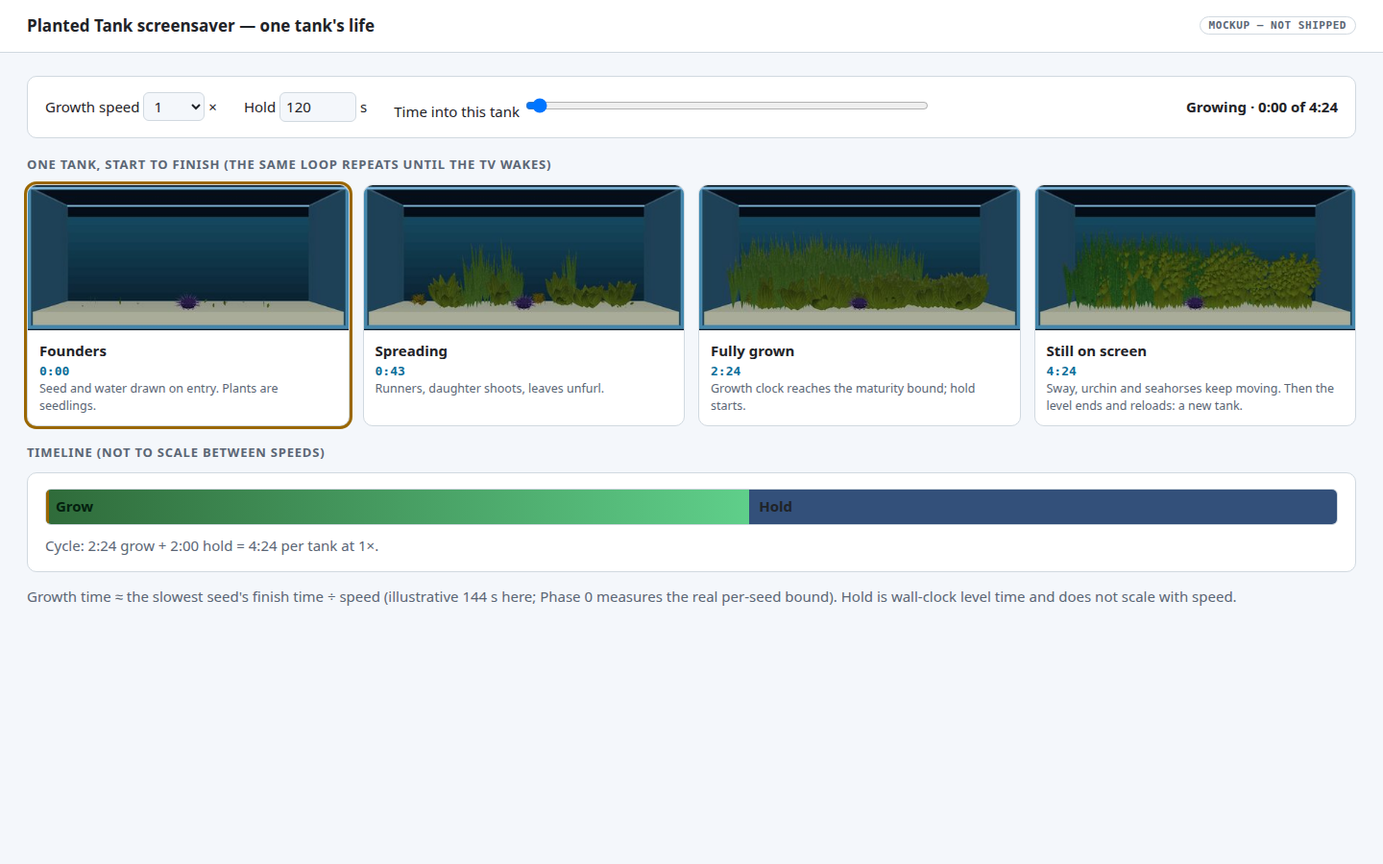
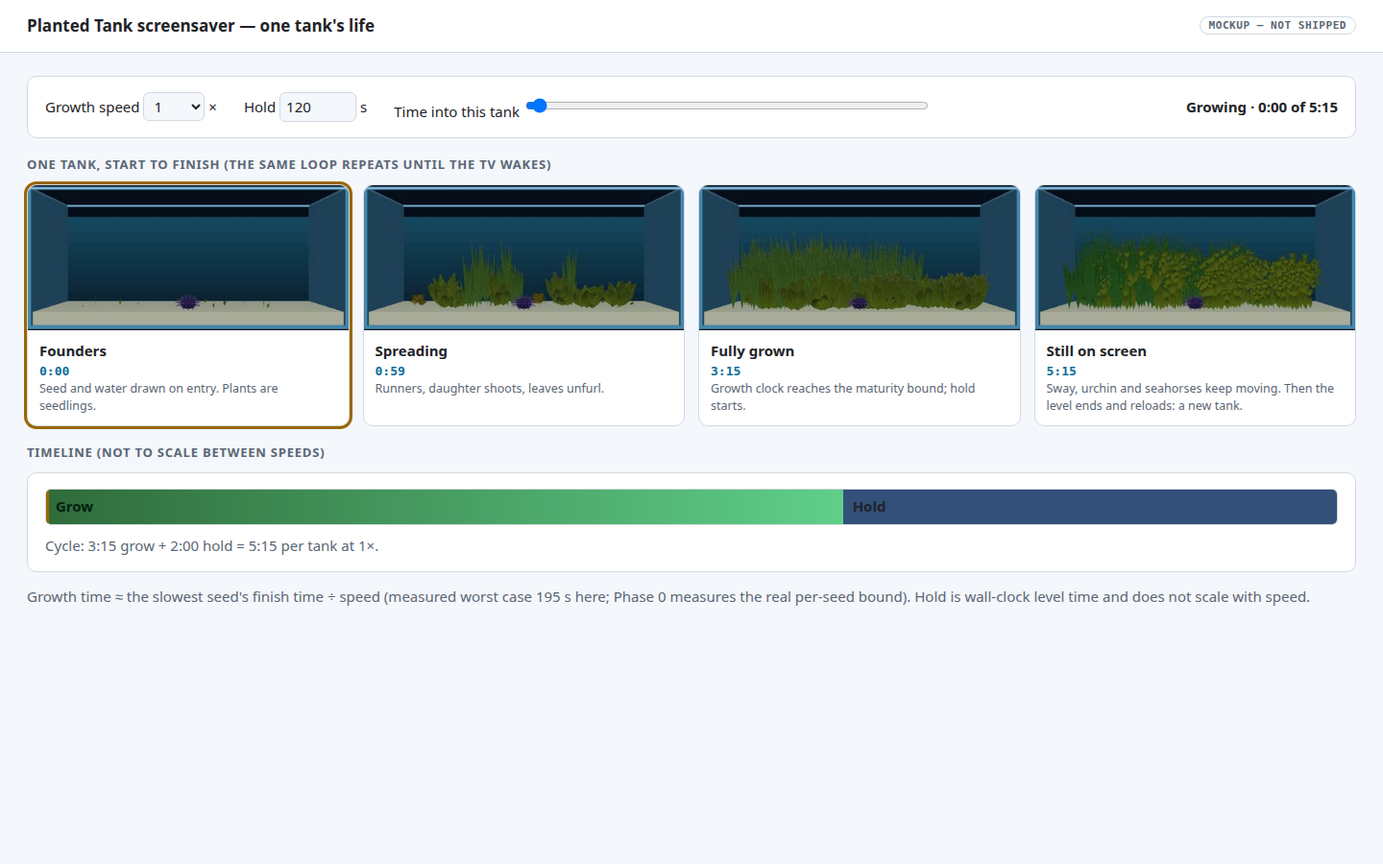
Planted Tank plan: record maturity sweep and S3 spike results
Maturity bound is 195 s (measured 103-193 s over 200 seeds). The seed strip
is engine-drawn, so hiding it needs a generic engine edit; framing is a
camera text substitution (y -12 to -8.25). Mockups updated to match.

Claude-Session: https://claude.ai/code/session_01LmFZJSGwibDCpz7J9wzY9X

diff --git a/docs/plans/2026-10-21-planted-tank-screensaver/dream-lifecycle.html b/docs/plans/2026-10-21-planted-tank-screensaver/dream-lifecycle.html
@@ -28,9 +28,9 @@ code,pre{font:13px/1.5 ui-monospace,SFMono-Regular,Menlo,monospace}
  <div id="h" style="background:#33507a;display:flex;align-items:center;padding-left:10px;font-weight:600">Hold</div>
  <div id="head" style="position:absolute;top:-4px;bottom:-4px;width:3px;background:var(--warn)"></div></div>
  <p id="sum" class="muted" style="margin:10px 0 0"></p></div>
-<p class="muted" style="margin-top:14px">Growth time ≈ the slowest seed's finish time ÷ speed (illustrative 144 s here; Phase 0 measures the real per-seed bound). Hold is wall-clock level time and does not scale with speed.</p>
+<p class="muted" style="margin-top:14px">Growth time ≈ the slowest seed's finish time ÷ speed (measured worst case 195 s here; Phase 0 measures the real per-seed bound). Hold is wall-clock level time and does not scale with speed.</p>
 </main><script>
-const G=144,$=id=>document.getElementById(id),mmss=s=>Math.floor(s/60)+':'+String(Math.round(s%60)).padStart(2,'0');
+const G=195,$=id=>document.getElementById(id),mmss=s=>Math.floor(s/60)+':'+String(Math.round(s%60)).padStart(2,'0');
 function draw(){const sp=+$('speed').value,h=+$('hold').value||0,grow=G/sp,total=grow+h,p=+$('t').value/100,t=p*total;
  $('g').style.flex=grow;$('h').style.flex=Math.max(h,1);$('head').style.left=(p*100)+'%';
  const marks=[0,grow*.3,grow,grow+h];for(let i=0;i<4;i++)$('c'+i).textContent=mmss(marks[i]);

diff --git a/docs/plans/2026-10-21-planted-tank-screensaver/parameters.html b/docs/plans/2026-10-21-planted-tank-screensaver/parameters.html
@@ -19,7 +19,7 @@ pre{margin:0;white-space:pre-wrap;word-break:break-all}button{font:inherit;backg
  <div class="row"><label for="speed">speed</label><select id="speed"><option>0.25</option><option>0.5</option><option selected>1</option><option>2</option><option>4</option><option>8</option></select><small>growth clock; 1× is the default</small></div>
  <div class="row"><label for="hold">hold</label><input id="hold" value="120"><small>seconds on screen once grown</small></div>
  <div class="row"><label for="sea">seahorses</label><input id="sea" value="6"><small id="seaN">0 – 6, saltwater only</small></div>
- <div class="row"><label for="label">label</label><label class="chk"><input id="label" type="checkbox"> show “Seed … | Water” strip</label></div>
+ <div class="row"><label for="label">label</label><label class="chk"><input id="label" type="checkbox" disabled> show “Seed … | Water” strip</label><small>not in v1: the strip is engine-drawn (needs an engine edit)</small></div>
  <p id="err" style="margin:12px 0 0;min-height:44px"></p></div>
 <div style="display:grid;gap:16px;align-content:start">
  <div class="card"><h2>Preview launch (activity extras)</h2><pre id="am"></pre></div>

diff --git a/docs/plans/2026-10-21-planted-tank-screensaver/make_mockups.py b/docs/plans/2026-10-21-planted-tank-screensaver/make_mockups.py
@@ -61,11 +61,11 @@ def lifecycle(art: Path) -> str:
  <div id="h" style="background:#33507a;display:flex;align-items:center;padding-left:10px;font-weight:600">Hold</div>
  <div id="head" style="position:absolute;top:-4px;bottom:-4px;width:3px;background:var(--warn)"></div></div>
  <p id="sum" class="muted" style="margin:10px 0 0"></p></div>
-<p class="muted" style="margin-top:14px">Growth time ≈ the slowest seed's finish time ÷ speed (illustrative 144 s here; Phase 0 measures the real per-seed bound). Hold is wall-clock level time and does not scale with speed.</p>
+<p class="muted" style="margin-top:14px">Growth time ≈ the slowest seed's finish time ÷ speed (measured worst case 195 s here; Phase 0 measures the real per-seed bound). Hold is wall-clock level time and does not scale with speed.</p>
 </main>"""
     css = ".f{margin:0;background:var(--panel);border:1px solid var(--line);border-radius:10px;overflow:hidden}.f img{display:block;width:100%}.f figcaption{padding:10px 12px;display:grid;gap:2px}.f figcaption span{color:var(--accent);font:600 13px ui-monospace,monospace}.f small{color:var(--muted)}.f.on{outline:3px solid var(--warn)}select,input{font:inherit;background:var(--bg);color:var(--fg);border:1px solid var(--line);border-radius:6px;padding:3px 6px}"
     js = """
-const G=144,$=id=>document.getElementById(id),mmss=s=>Math.floor(s/60)+':'+String(Math.round(s%60)).padStart(2,'0');
+const G=195,$=id=>document.getElementById(id),mmss=s=>Math.floor(s/60)+':'+String(Math.round(s%60)).padStart(2,'0');
 function draw(){const sp=+$('speed').value,h=+$('hold').value||0,grow=G/sp,total=grow+h,p=+$('t').value/100,t=p*total;
  $('g').style.flex=grow;$('h').style.flex=Math.max(h,1);$('head').style.left=(p*100)+'%';
  const marks=[0,grow*.3,grow,grow+h];for(let i=0;i<4;i++)$('c'+i).textContent=mmss(marks[i]);
@@ -120,7 +120,7 @@ def params() -> str:
  <div class="row"><label for="speed">speed</label><select id="speed"><option>0.25</option><option>0.5</option><option selected>1</option><option>2</option><option>4</option><option>8</option></select><small>growth clock; 1× is the default</small></div>
  <div class="row"><label for="hold">hold</label><input id="hold" value="120"><small>seconds on screen once grown</small></div>
  <div class="row"><label for="sea">seahorses</label><input id="sea" value="6"><small id="seaN">0 – 6, saltwater only</small></div>
- <div class="row"><label for="label">label</label><label class="chk"><input id="label" type="checkbox"> show “Seed … | Water” strip</label></div>
+ <div class="row"><label for="label">label</label><label class="chk"><input id="label" type="checkbox" disabled> show “Seed … | Water” strip</label><small>not in v1: the strip is engine-drawn (needs an engine edit)</small></div>
  <p id="err" style="margin:12px 0 0;min-height:44px"></p></div>
 <div style="display:grid;gap:16px;align-content:start">
  <div class="card"><h2>Preview launch (activity extras)</h2><pre id="am"></pre></div>

diff --git a/docs/plans/2026-10-21-planted-tank-screensaver/spikes/S3.md b/docs/plans/2026-10-21-planted-tank-screensaver/spikes/S3.md
@@ -1,0 +1,123 @@
+# Spike S3: the seed strip and the 85% framing
+
+Plan: [2026‑10‑21 Planted Tank screensaver](../../2026-10-21-planted-tank-screensaver.md), Phase 0d. Read-only investigation on `2026-new-level`, 2026‑10‑21. Nothing was compiled, edited or committed.
+
+## Verdicts
+
+| Question | Verdict |
+|---|---|
+| Can the screensaver variant drop the `Seed: … \| Hold A: settings` strip **without an engine edit**? | **NO.** The strip is drawn by engine C++ (`planted::buildUI`) on every frame while `planted::state().active` is true. `active` is set by `planted::enter()`, which is what generates the plants, and growth (`planted::tick`) returns early unless `active` is set. No level field, catalog field, object flag, mailbox or host switch (`WFAndroidSetHudEnabled(0)`, `--no-fps`) reaches the strip. |
+| Does the plan's `label` parameter (strip only when asked) have a no-engine-edit implementation? | **NO**, for the same reason. It needs a seam of about three lines (below), so it needs Will's say-so. |
+| Framing: which camera numbers give at least 85% width? | Move the **wide** camera from `y = -12` to **`y = -8.25`** and keep `x = 0`, `z = 2.5` and the `LookAt` at `(0, 0, 2.5)`. The tank then fills **90.0% of the width and 71.3% of the height** at 16:9, with nothing cropped (a 5% margin each side for TV overscan). The hard limit for 85% is `y = -8.638`. The vertical field of view is fixed at 60° in the engine, so FOV is not a lever. |
+| Edit method | A text substitution in `scripts/build-aquarium-screensaver-levels.py`, scoped to two `OBJ` blocks in the exported `.lev`: the `Position` y of `"cs_wide"` and of `"Camera"`. The builder already splits on `\t{ 'OBJ'` to rewrite the Player, so this is the same technique. No engine edit and no change to the canonical level. |
+| Does the screensaver stay on the wide camera? | **Yes.** The only switch to the close camera is a native tap of A (`game.cc:677` toggles mailbox 625). The Dream is non-interactive, and the screensaver host forwards no keys to the engine, so mailbox 625 stays 0. |
+
+ESCALATE: the plan's "no strip" goal (Phase 1) and the `label` parameter both need a small engine edit, which needs Will's explicit permission. This is beyond the T3 remit. The rest of Phase 1, including the framing, is independent of it.
+
+### The smallest engine seam for the strip
+
+If Will approves, three edits in two files do it. They are not made here.
+
+1. `wfsource/source/game/plant_settings.h:12`: add `bool label=true;` to `planted::State`.
+2. `plant_settings.h:36`, inside the `if(!selected)` block of `enter()` (lines 31-38): `s.label=value(9,"1")!="0";` (field 9 is the next free id after the plan's field 8 for seahorses). A missing field keeps today's behaviour, so the canonical level and the eight Aquarium variants are unchanged.
+3. `wfsource/source/game/plant_ui.cc:12`: `if(s.active){` becomes `if(s.active&&s.label){`.
+
+The variant then sets field 9 to `0` in its `PlantedTankSettings` catalog entry. Alternatively, the Phase 2b staging adapter sets `state().label` directly. With that seam, `label` becomes a runtime parameter instead of a cooked one. Note that `enter()` reads catalog fields only when no seed was staged (`if(!selected)`, line 31), so a staged run would also have to stage `label`. This matters for Spike S1.
+
+## Evidence: the strip
+
+| Fact | Where |
+|---|---|
+| The strip text and its dark rectangle `(42, 984, 890 × 54)` on a 1920 × 1080 reference canvas, drawn only `if(s.active)` with no other condition | `wfsource/source/game/plant_ui.cc:12-14` |
+| `buildUI` is called after `EndFrame` whenever `planted::state().active` (or a settings modal is open) **and** a level-menu drawer is installed | `wfsource/source/gfx/gl/display.cc:1280` |
+| On Android the drawer is always installed, at display init | `wfsource/source/gfx/gl/display.cc:789` (`levelmenu::SetDrawer(&WFAndroidDrawLevelMenu)`) |
+| `WFAndroidDrawLevelMenu` does **not** check `gHudEnabled`. Only the touch-control HUD (`WFAndroidDrawHUD`) does | `wfsource/source/gfx/gl/android_window.cc:353, 359` and `:502-506` |
+| The screensaver host disables only the touch HUD and the FPS counter | `android/screensaver/src/main/cpp/dream_host.cc:114` (`WFAndroidSetHudEnabled(0)`), `:126` (`--no-fps`) |
+| `active=true` is set in `enter()`. `enter()` is called from Forth `plant-register` when the chunk is 0 | `plant_settings.h:28`, `engine/stubs/scripting_zforth.cc:1323-1326` |
+| Growth needs `active`: `tick()` returns early without it, and so does the per-chunk geometry upload | `plant_settings.h:86`, `scripting_zforth.cc:1329-1330` |
+| `active` is cleared only by `leave()`, at level unload | `plant_settings.h:44`, `wfsource/source/game/game.cc:421` |
+| The catalog fields `enter()` reads are 1 (seed), 2 (salt), 3 (speed), 4 (age), 5 (textures), 6 (sway) and 7 (random entry). None of them controls the strip | `plant_settings.h:32-38` |
+| The strip is visible in the retained device capture. The `12.8` at bottom right is the FPS counter, which `--no-fps` removes | `docs/plans/2026-10-03-aquatic-plant-clumps-and-poster/runtime-evidence/textured-device/freshwater-mature.png` |
+
+Attempts to find a level-only way: (1) a catalog or Director field: none is read for the strip; (2) not calling `plant-register 0`: no plants grow; (3) the HUD flag or the drawer pointer: the flag does not gate this drawer, and the pointer is engine-set. That is three attempts; there is no level-only route.
+
+**A shipped side effect.** The current Aquarium screensaver already ships `aquarium_plants_screensaver` as its sixth choice (`scripts/build-aquarium-screensaver-levels.py:19-23`, `TankChoice.java:13`). So the Aquarium Dream shows this strip today when "Planted Tank" is selected, including the misleading "Hold A: settings" on a Dream that takes no input. The same engine seam would fix both apps.
+
+## Evidence: framing
+
+### Camera and projection
+
+| Item | Value | Where |
+|---|---|---|
+| Wide camshot `cs_wide` | position `(0, -12, 2.5)`, `Rotation Fixed`, all axes `Absolute`, Target / Follow / Track = `LookAt` | `wflevels/aquarium_plants/aquarium_plants.lev:654-655, 744-753`; generator `wflevels/aquarium_tanks/generate.py:368-371` |
+| `LookAt` | `(0, 0, 2.5)`: the camera looks straight down +Y, with no pitch | `.lev:766-767`, `generate.py:367` |
+| `Camera` (the mobile camera object) | position `(0, -12, 2.5)`, copied from `cs_wide`. Fog colour `0x102b40`, start 9, complete 45 | `.lev:129-130, 221-223`, `generate.py:377-378` |
+| Camshot `FOV` field | 50.0, but **unused**: `movecam.cc:386` copies it to `outPos.field`, and nothing reads that for the projection | `.lev:754`, `wfsource/source/game/movecam.cc:386` |
+| Actual projection | **60° vertical**, aspect = draw surface (16:9 on the Chromecast HD), near 1, far 1000, set every frame | `wfsource/source/gfx/gl/display.cc:897` (`SetProjection(60.0f, suw/suh, 1, 1000)`), parameter named `fovDegY` in `wfsource/source/gfx/renderer_backend.hp:75` |
+| Close camshot `cs_close` | authored at `(0, -5.2, 2.0)` looking at `LookClose (0, -0.85, 1.35)`. Each frame `tk-camera-tick` moves `LookClose` to the Player's x and y, at the Player's z + 0.485, and `cs_close` to the Player's x, at `LookClose` z + 1.135. Its y stays -5.2 | `.lev:2564-2565, 2660-2661`, `config.py` (`CLOSE_LOOK`, `CLOSE_CAMERA`), `wflevels/aquarium_tanks/plants_controller.fth:33-39` |
+| Camshot selection | `tk-camera` (mailbox 625) selects `tk-cam-close` or `tk-cam-wide` → `INDEXOF_CAMSHOT` | `plants_controller.fth:39`; mailbox 600 + 25 in `generate.py:384-386` |
+
+**What the close camera shows.** A 1:1 chase view about 4.35 m in front of the Player, centred on it. That is the sea urchin in saltwater, or the goby in freshwater: the Player script runs `tk-urchin-player-tick` or `gb-player-tick` on `pg-salt` (`generate.py:498`). It shows a small part of the substrate and the lower plants.
+
+**How A switches it.** In the cooked level the Forth A-tap edge (`plants_controller.fth:14`) is replaced with a comment, because `PLANTED_TANK_DETAIL=runtime` is the default (`generate.py:491-492`). The `.lev` has 0 hits for `JOYSTICK_BUTTON_A tk-edge` and 2 for the replacement comment. The native settings gesture handles A instead: a tap shorter than 1 s toggles mailbox 625 (`game.cc:677`, `engine/runtime_property_host.cpp:133-134`), and a hold of 1 s or more opens the settings modal.
+
+### The tank's world extents
+
+From `generate.py:44, 296-313`: `HX=6.096`, `HY=1.651`, `HEIGHT=5.334`, `WALL=0.127`, `SAND=0.635`, `WATER=4.826`.
+
+| Part | Extent |
+|---|---|
+| Tank shell (base, end walls, back) | x ±6.096, y ±1.651, z 0 to 5.334 |
+| Rim | top at z 5.434, flush with x ±6.096 and y ±1.651 |
+| `front-collider` | y -1.778 to -1.651, **invisible** (`static_box(..., False)`, `generate.py:165, 308`), so there is no front pane |
+| Stand | x ±6.246, y ±1.801, z -2.5 to -0.025. It is furniture, not the tank |
+| Plants | every vertex clamped to x ±5.90, y ±1.43, z ≤ 4.79 (`wfsource/source/game/plant_growth.h:47`): inside the shell |
+| Urchin | x ±4.70 (`LIMIT_X`), y ±0.88, z 0.865 (`config.py`); goby ceiling 4.35 |
+
+Because the plants and animals are clamped inside the shell, a frame that contains the shell box cannot cut them.
+
+### The calculation
+
+A pinhole model with 60° vertical, 16:9, the camera at `(0, cy, cz)` looking at `(0, 0, cz)`, projecting the 8 corners of the box x ±6.096, y ±1.651, z 0 to 5.434. The widest points are the front corners.
+
+The model reproduces the capture: at `cy = -12` it gives **57.4% width and 45.5% height**. The PNG measures 1102 px of 1920 (57.4%) and 490 px of 1080 (45.4%).
+
+| `cy` (z 2.5) | Width | Vertical NDC (bottom to top) | Note |
+|---|---|---|---|
+| -12 (today) | 57.4% | -0.418 to 0.491 | matches the capture |
+| -9.0 | 80.8% | -0.589 to 0.692 | short of target |
+| -8.638 | 85.0% | -0.620 to 0.727 | exact 85% limit |
+| -8.5 | 86.7% | -0.632 to 0.742 | |
+| **-8.25** | **90.0%** | **-0.656 to 0.770** | **recommended**: 96 px margin each side at 1920, 71% of the height |
+| -8.107 | 92.0% | -0.671 to 0.787 | tighter. Overscan on some TVs could clip the walls |
+
+Centring vertically (moving both the camera and the `LookAt` to z 2.717, the mid-height of the shell) makes the vertical span symmetric (±0.713 at -8.25) but changes a third object. It is optional and not needed for the target.
+
+**What leaves the frame at `cy = -8.25`.** Only the lower part of the stand: the frame bottom reaches z ≈ -1.2 at the stand's front face, so the stand's bottom 1.3 m is cropped. The black band under the stand in the current capture (below the backdrop's z -5 edge) also leaves the frame: the bottom edge now meets the backdrop at z ≈ -4.0. Nothing in the tank is cropped.
+
+### The variant builder edit (for Phase 1, not made here)
+
+In the exported `.lev`, inside the `OBJ` blocks named `"cs_wide"` and `"Camera"` only, replace `-12.0000000000000000(1.15.16)` in the `Position` VEC3 with `-8.2500000000000000(1.15.16)`. That string occurs exactly twice in the file, at lines 130 and 655, so a check for "exactly one hit per block, two in total" makes the substitution fail loudly if the generator moves the camera. Change `Camera` too, so the level does not open on a one-second pan (`Pan Time In Seconds 1.0`, `.lev:757`) from the old position. Do the substitution in the same pass as `player_script()`, and only for the new `planted_tank_screensaver` target, so that the Aquarium bundle's `aquarium_plants_screensaver` keeps today's framing unless Will wants both.
+
+## Q3: other things a screensaver should drop or watch
+
+| Item | Status in the screensaver | Where |
+|---|---|---|
+| Seed strip with "Hold A: settings" | **Drawn**: needs the engine seam above | `plant_ui.cc:12-14` |
+| FPS counter | off (`--no-fps`) | `dream_host.cc:126` |
+| Touch controls (joystick disc, buttons) | off (`gHudEnabled=false`) | `android_window.cc:353, 359` |
+| Settings modal, object picker, phone form, colour picker or keypad | only when `wfprops::host().modal`. Opening it needs an A hold. A modal also **pauses** the level (`game.cc:680`), but no input path reaches it | `plant_ui.cc:15` (`buildHost`), `game.cc:674-680` |
+| Close-camera toggle (A tap) | unreachable without input | `game.cc:677` |
+| Input path | Dreams call `setInteractive(false)`, and neither `dream_host.cc` nor `TankPlayer.java` nor `ScreensaverPreviewActivity.java` forwards key or button events (grep for key, button, joystick and input: no hits). A new `PlantedTankActivity` must not add one, or a remote tap would switch cameras and a hold would freeze the tank behind a modal | `SeahorseGridDreamService.java:12`, `AquariumDreamService.java:11` |
+| Player auto-drive | the variant's Player reads mailbox 760, written by `ss-drive` (`screensaver_player.fth`), not the hardware joystick. In freshwater the Player is the goby, whose tick reads `JOYSTICK_BUTTON_*` through `tk-held`. Because the builder replaces `INDEXOF_HARDWARE_JOYSTICK1_RAW` in the whole Player script, the goby also follows `ss-drive`. Phase 5 should confirm that the goby moves sensibly under the urchin's leg driver | `build-aquarium-screensaver-levels.py:53-57`, `generate.py:498` |
+| Random seed per entry | catalog field 7 defaults to "1", so each `enter()` draws `freshSeed()` unless a seed was staged. That is correct for the cycle | `plant_settings.h:32-33` |
+| Fog after the camera move | `FoggingStartDistance` 9 is fixed. The front glass moves from 10.3 to 6.6 m and the back wall from 13.7 to 9.9 m, so the scene loses about 4 to 10 points of fog and reads slightly crisper and brighter than in the retained captures. This is acceptable. To keep today's look, scale start and complete by about 0.64 in the same `Camera` block substitution | `.lev:222-223` |
+| QR code or pairing prompt | none in the plant level or in `plant_ui.cc`. Phone-pad surfaces appear only inside the modal (`host.phone`) | `engine/runtime_property_host.hpp:25` |
+
+## Risks
+
+1. **Engine permission.** "No strip" is in Phase 1's scope, and the `label` parameter is in the plan's table, but neither is reachable without the three-line seam. If Will declines, the screensaver ships with the strip, as the Aquarium Dream's Planted Tank does today, and `label` should come out of the parameter table.
+2. **Aspect assumption.** The percentages assume a 16:9 surface. On a narrower surface (a 4:3 preview window) the walls can be cropped at `cy = -8.25`: at 4:3 the width would be 120%. The Chromecast HD and any TV Dream are 16:9.
+3. **Overscan.** 90% leaves 5% each side. TVs that overscan by more than about 5% would clip the tank walls. Phase 5 should check on the real TV.
+4. **Generator drift.** The substitution relies on `-12.0000000000000000(1.15.16)` appearing exactly once in each of the two blocks. The builder must assert this rather than replace blindly.
+5. **Untested on device.** All framing numbers come from a model that was validated against one retained capture (57.4% / 45.5% predicted; 57.4% / 45.4% measured). Phase 1 should take a capture to confirm.

diff --git a/docs/plans/2026-10-21-planted-tank-screensaver.md b/docs/plans/2026-10-21-planted-tank-screensaver.md
@@ -8,7 +8,7 @@ Two screensaver apps ship from `android/screensaver`: **Aquarium** (eight tanks,
 
 What is true today:
 
-- The planted tank is already a growing ecosystem. `planted::enter()` draws a fresh seed on every level entry, plants grow from founders, and growth finishes on its own: "tested seeds fully develop after about 117–144 growth seconds" ([clumps plan](2026-10-03-aquatic-plant-clumps-and-poster.md)). The engine clamps the growth age at 240 s (`wfsource/source/game/plant_settings.h`, `tick`).
+- The planted tank is already a growing ecosystem. `planted::enter()` draws a fresh seed on every level entry, plants grow from founders, and growth finishes on its own. The older clumps plan said "about 117–144 growth seconds", from a few seeds; the Phase 0 sweep of 200 seeds measured **103 s to 193 s** ([results](2026-10-21-planted-tank-screensaver/spikes/maturity-sweep.md)). The engine clamps the growth age at 240 s (`wfsource/source/game/plant_settings.h`, `tick`).
 - "Fully grown" has an exact definition per seed: each `plantgrowth::Vertex` carries `birth` and `duration`, and a vertex is full size at `age ≥ birth + duration` (`plant_growth.h`, `deformedWave`). A tank is complete at the maximum of that over all its vertices.
 - A Dream has **no command line**. The old `--plant-seed`, `--plant-water` and `--plant-speed` switches were deliberately **removed** ([command-line-switches.md](../command-line-switches.md#baseline-runtime-options)); plant values now come from the level's cooked `PlantedTankSettings` catalog, and "no replacement launch aliases" are provided. Parameters therefore have to arrive another way (see **Parameters**).
 - **The level can end itself and name what loads next.** A level writing mailbox `END_OF_LEVEL` (1905) = 1 ends; `LEVEL_TO_RUN` (5000) = *n* chooses the next TOC entry. The `cd.iff` meta-loop in `game.cc` reloads it, and the value persists across the reload ([level-design-troubleshooting.md](../level-design-troubleshooting.md#flag--next-level-transition-and-verifying-it-headlessly)). Will pointed this out, and it is the spine of this plan. The planted level calls `plant-register`, which calls `planted::enter()`, on every load, so a reload **is** a new tank.
@@ -97,7 +97,7 @@ The "command line" of an Android Dream is `adb`: **activity extras** for an imme
 | `speed` | 0.25, 0.5, 1, 2, 4, 8 (paused is rejected: the tank could never finish) | `1` | staged `state().speed` index; mirrored by the Forth clock | yes |
 | `hold` | 0 to 86400 s | `120` | Forth hold timer | cooked default in v1; runtime if Spike S2 finds a read path |
 | `seahorses` | 0 to 6 (saltwater only) | `6` | catalog field 8 | cooked default in v1; runtime if S2 allows |
-| `label` | true or false | `false` | whether the level draws the seed strip | cooked default in v1 |
+| `label` | true or false | `false` | the seed strip is engine-drawn, so this needs an engine edit (see **Spike results**) | **not in v1** unless Will approves the edit |
 | `cycles` | 0 (unlimited) or *n* | `0` | Forth cycle counter | cooked default in v1 |
 | `age`, `textures`, `sway` | developer keys; `age` 0 to 240 s | `0`, `true`, `true` | staged `state().initialAge`, `textures`, `sway` | yes, hidden from the tray |
 
@@ -118,7 +118,7 @@ The page opens on the defaults; the thumbnail shows the **rejected** state, wher
 
 [![One tank's life at 1×](2026-10-21-planted-tank-screensaver/dream-lifecycle.png)](2026-10-21-planted-tank-screensaver/dream-lifecycle.html)
 
-At 1× a cycle is the maturity bound (illustratively 144 s) plus the 120 s hold, about 4 min 24 s per tank. At 0.25× growth takes four times as long; at 8× about 18 s; the hold stays 120 s. [Open the interactive timeline](2026-10-21-planted-tank-screensaver/dream-lifecycle.html) and change the speed.
+At 1× a cycle is the maturity bound (**195 s**, measured) plus the 120 s hold, about 5 min 15 s per tank. A median tank (about 135 to 141 s) is fully grown 55 to 60 s before the bound, so it shows for roughly three minutes. A per-seed bound would remove that slack; see Spike S2. At 0.25× growth takes four times as long; at 8× about 18 s; the hold stays 120 s. [Open the interactive timeline](2026-10-21-planted-tank-screensaver/dream-lifecycle.html) and change the speed.
 
 **Frames and performance.** Growth ignores frames longer than 0.2 s, so it needs more than 5 FPS to run at 1×. The retained cast1 numbers are 21 FPS (no seahorses) and 14 FPS (six pairs) for the wide view ([seahorse plan](2026-10-16-saltwater-seahorses.md)), which is fine for this. The default of six pairs costs about a third of the frame rate; it stays the default until Phase 5 measures the screensaver build.
 
@@ -139,8 +139,8 @@ Tiers are dispatch inputs (ranking is done inline, never delegated). Torn calls 
 | 0a | Re-cook the planted levels for the actor‑30 fix (existing TODO item) | T3 | settled plan, multi-step build |
 | 0b | **Spike S1:** can the host stage `planted::state()` safely between `leave()` and the next `enter()`? Check where `WFAndroidPumpEvents` runs during a reload and whether `explicitSeed` survives it | T4 | unknown root cause territory; a wrong answer changes the design |
 | 0c | **Spike S2:** can Forth read the staged speed, hold, seahorses and cycles (the generic instance-property read in `scripting_zforth.cc`), or must they be cooked? | T4 | same |
-| 0d | **Spike S3:** where is the seed/settings strip drawn, and can the variant drop it? Which camera gives the 85% framing? | T3 | bounded search plus a level edit |
-| 0e | Maturity sweep: `max(birth + duration)` over 200 seeds in both waters → the bound (must be below the 240 s clamp) | T2 | one harness, known formula |
+| ~~0d~~ | ~~**Spike S3:** where is the seed/settings strip drawn, and can the variant drop it? Which camera gives the 85% framing?~~ **Done** | T3 | bounded search plus a level edit |
+| ~~0e~~ | ~~Maturity sweep over 200 seeds in both waters~~ **Done** (`f793c3d1`): bound 195 s | T2 | one harness, known formula |
 | 1 | Level variant: build `planted_tank_screensaver` from `aquarium_plants`, Director cycle script (growth clock, hold, mailboxes), framing, no strip | T3 | multi-file against this plan |
 | 2a | Java: `PlantedSettings`, activity, Dream, provider, manifest, strings, Gradle flavor | T2 | one module, clear spec |
 | 2b | Native: `nativeConfigure` and the staging adapter in one file (`planted_bridge.cc`) | T4 | touches engine state from the game thread; one file so the later OAS/OAD migration, which retires `planted::State`, changes one place |
@@ -148,7 +148,19 @@ Tiers are dispatch inputs (ranking is done inline, never delegated). Torn calls 
 | 4 | `task` entries, bundle builder mode, README, device-coordinator doc, TODO | T1 | recipes |
 | 5 | Device verification, soak, natural-idle check through the coordinator | T3 | procedure with judgment about results |
 
-Spikes S1 to S3 run first and may change Phases 1, 2a and 2b. If S1 shows staging cannot be made safe, **stop and ask Will** for permission to add a small engine seam (a `planted::Launch` struct consumed in `enter()`, about ten lines in `plant_settings.h`). Engine edits need his explicit say-so; the plan does not assume it.
+Spikes S1 to S3 run first and may change Phases 1, 2a and 2b. If S1 shows staging cannot be made safe, **stop and ask Will** for permission to add an engine seam. **The seam must be generic, not plant-specific** (Will, 2026‑10‑21: "i'd want it to be more generic than just plant settings"): a launch-override layer in the `wfprops` runtime property registry that lets a host set any owner's field before level entry, so any settings owner can use it. A `planted::Launch` struct is rejected. Engine edits still need his explicit say-so; the plan does not assume it.
+
+## Spike results
+
+**0e, maturity sweep (done, `f793c3d1`, [write-up](2026-10-21-planted-tank-screensaver/spikes/maturity-sweep.md)).** `task test-plant-maturity` runs seeds 0 to 199 in both waters inside `wf-linux-test:local`. Freshwater finishes between 103.5 and 187.8 s (median 135.3), saltwater between 107.5 and 193.3 s (median 141.2); worst seed is 48 in both. Nothing nears the 240 s clamp, and seed 713 repeats identically. **Bound: 195 s.** It covers 200 seeds, not all 2³², so the level never compares against the clamp itself.
+
+**S3, strip and framing (done, [write-up](2026-10-21-planted-tank-screensaver/spikes/S3.md)).** Two of its findings change the plan; I re-checked both against the source.
+
+- **The seed strip cannot be removed without an engine edit.** The engine draws it every frame while a tank is active (`wfsource/source/game/plant_ui.cc:12`). No catalog field, object flag, Director script or mailbox controls it, and growth needs the same `active` flag. The screensaver's own HUD switch does not reach it: `WFAndroidSetHudEnabled(0)` removes only the touch controls and the FPS counter, because the Android overlay drawer ignores that flag (`android_window.cc:502`, per the spike). **The shipped Aquarium Dream already shows this strip** on its Planted choice, with "Hold A: settings" text on a Dream that takes no input. S3's smallest fix is a plant-specific `label` flag in `plant_settings.h` and `plant_ui.cc` (three lines). Following Will's "more generic" direction, my proposal is instead to make the Android overlay drawer **respect the existing `gHudEnabled` switch**, which the screensaver host already sets to 0: one generic change that fixes both apps and adds no plant-specific state. It needs Will's approval; until then the plan has no `label` parameter and the strip stays on.
+- **Framing is a text substitution, as hoped.** The wide camera sits at `y = -12`. Moving it to `y = -8.25` (same x, z and look-at) makes the tank 90.0% of the frame width and 71.3% of its height at 16:9, with a 5% margin each side and nothing cropped; the 85% limit is `y = -8.638`. The model reproduces the device capture (predicted 57.4% × 45.5%, measured 57.4% × 45.4%). The builder replaces `-12.0000000000000000(1.15.16)` in the `cs_wide` and `Camera` blocks (`aquarium_plants.lev` lines 130 and 655, the only hits) and asserts one hit per block; leaving `Camera` unchanged would add a one-second pan on start. Moving in removes some fog (start distance 9), so scale both fog distances by about 0.64 to keep today's look. The camera field of view is ignored by the engine (fixed 60° vertical), so position is the only lever. TV overscan above about 5% would clip the walls, so Phase 1 takes a device capture to confirm.
+- **Smaller facts.** The screensaver stays on the wide camera, since only a native tap switches cameras and the Dreams take no input; `PlantedTankActivity` must not add an input path. In freshwater the goby also follows `ss-drive`, so Phase 5 checks it. The level has no QR code or pairing prompt.
+
+**S1 and S2 (staging and Forth reads)** are still running; results go here when the agent reports.
 
 ## Out of scope
 
@@ -187,6 +199,6 @@ Results: _pending._
 
 ## Open decisions for Will
 
-1. **Engine seam, only if S1 fails.** Permission for the small `planted::Launch` change described above. Not needed otherwise.
+1. **Engine edits, both generic.** (a) The overlay drawer respects `gHudEnabled`, so the screensaver can hide the seed strip (and the shipped Aquarium stops showing it); about three lines in the Android window layer. (b) Only if S1 fails: a launch-override layer in the `wfprops` registry (design in `spikes/S1‑S2.md`). Will has asked that seams be generic; no edit is approved yet.
 2. **Seahorse default.** Six pairs costs about a third of the frame rate. Keep six, or default to fewer for the Dream?
 3. **Urchin.** The planted level has the sea urchin on an autonomous route (`screensaver_player.fth`). This plan keeps it. Say so if the screensaver should be plants and seahorses only.

diff --git a/docs/plans/.history/2026-10-21-planted-tank-screensaver.md b/docs/plans/.history/2026-10-21-planted-tank-screensaver.md
@@ -1,0 +1,11 @@
+| Date | Change |
+|------|--------|
+| [2026-10-21](https://github.com/wbniv/WorldFoundry/commit/4266a44c) | Plan the Planted Tank screensaver |
+
+<!--history-meta v1
+4266a44c	author	Will Norris
+4266a44c	added	192
+4266a44c	deleted	0
+4266a44c	files	1
+4266a44c	body	Third Dream flavor: a planted tank grows at 1x, stays 2 minutes, then the\nlevel ends and reloads as a new seeded tank. Parameters via am start extras\nand the settings provider; WF badge on icon and banner. Plan, mockups and\nTODO entry only; no code.\n\nCo-Authored-By: Claude Sonnet 5.5 <noreply@anthropic.com>\nClaude-Session: https://claude.ai/code/session_01LmFZJSGwibDCpz7J9wzY9X
+-->
